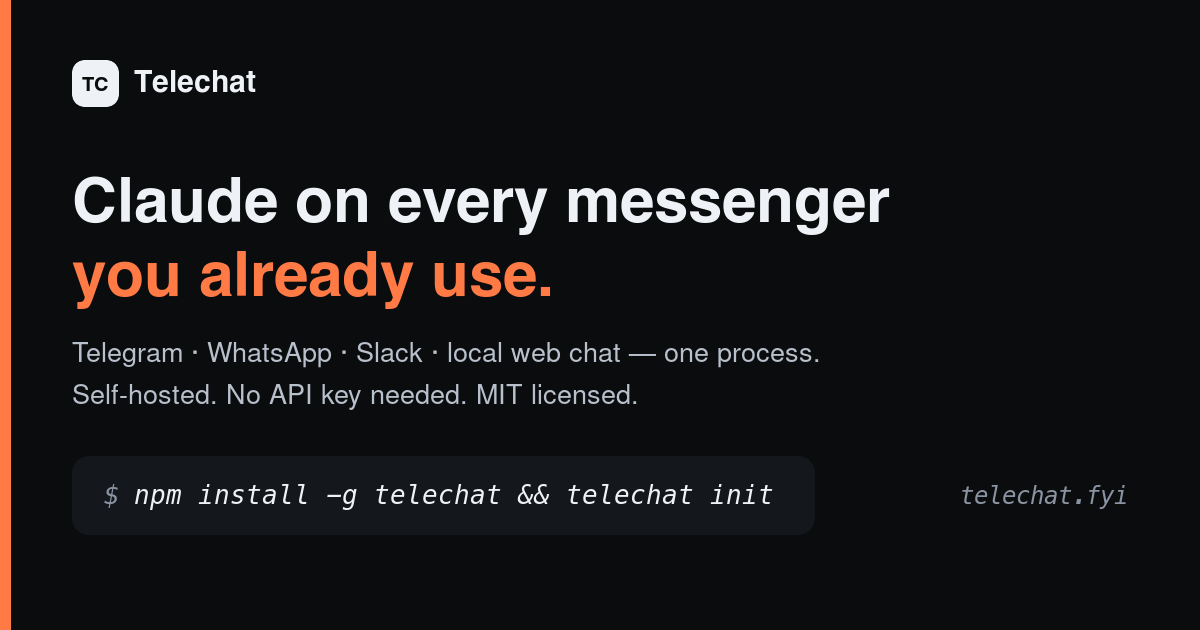
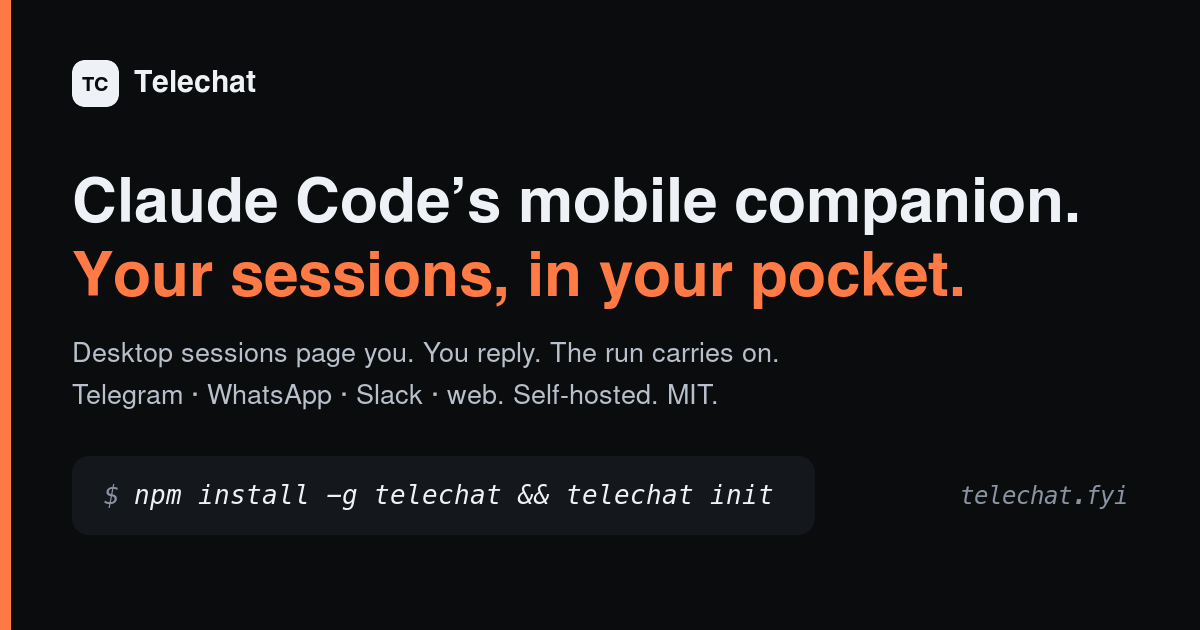
docs(website): sell the bridge, not another Claude chat bot
The page opened with "Claude on every messenger you already use." Every
single-file Claude-on-Telegram script opens with that sentence, and the
one thing Telechat does that none of them do — reach into the Claude Code
sessions already running on your desktop — was three screens down under
the heading "The differentiator."

So the site now leads with it. Title, description, both social cards and
the OG image say "Claude Code's mobile companion". The hero explains the
actual problem (the work stops when you walk away from the machine) and
the actual fix (it pages you; you answer; the session resumes). Features
are reframed as what the same process does between pages. The comparison
table opens on the two rows a bot script and a hosted assistant both
score nothing on. The FAQ answers "what is the bridge" first, and adds
the question people actually ask second — whether it works from a
terminal rather than the app.

`telechat bridge install` was a comment at the end of a code block; it is
now install step 6, with what it writes and what to do next.

A TestPositioning class locks this in, so undoing it has to be a decision
rather than a drift, and a new check catches a `telechat bridge <sub>`
the page teaches but the CLI doesn't handle.

Changed region(s): [[0.0617, 0.2714, 0.8942, 0.4825], [0.0617, 0.5429, 0.6783, 0.6635]]

diff --git a/website/index.html b/website/index.html
@@ -3,8 +3,8 @@
 <head>
 <meta charset="UTF-8">
 <meta name="viewport" content="width=device-width, initial-scale=1">
-<title>Telechat — self-hosted Claude bot for Telegram, WhatsApp &amp; Slack</title>
-<meta name="description" content="Self-hosted Claude bot for Telegram, WhatsApp, Slack and a local web chat — one process, no API key needed, MIT licensed. Install with one command.">
+<title>Telechat — Claude Code's mobile companion</title>
+<meta name="description" content="Claude Code's mobile companion. Your desktop sessions page you when they need a decision, you answer from your phone, and the run carries on.">
 <meta name="author" content="telechatai">
 <meta name="robots" content="index, follow, max-image-preview:large">
 <meta name="theme-color" content="#0b0c0e" media="(prefers-color-scheme: dark)">
@@ -18,20 +18,20 @@
 <meta property="og:type" content="website">
 <meta property="og:site_name" content="Telechat">
 <meta property="og:url" content="https://telechat.fyi/">
-<meta property="og:title" content="Telechat — Claude on Telegram, WhatsApp &amp; Slack">
-<meta property="og:description" content="A self-hosted bot that runs Claude on every messenger you already use — and pages you on Telegram when a Claude Code session on your desktop needs a decision. One command to install.">
+<meta property="og:title" content="Telechat — Claude Code's mobile companion">
+<meta property="og:description" content="Claude Code runs on your desktop. Telechat puts it in your pocket: a triage card when a session needs a decision, a reply that resumes it, and a live dashboard of every session. Self-hosted, MIT.">
 <meta property="og:image" content="https://telechat.fyi/og.png">
 <meta property="og:image:width" content="1200">
 <meta property="og:image:height" content="630">
-<meta property="og:image:alt" content="Telechat — Claude on Telegram, WhatsApp and Slack. Self-hosted, one command.">
+<meta property="og:image:alt" content="Telechat — Claude Code's mobile companion. Your sessions page you; you answer from your phone.">
 <meta property="og:locale" content="en_US">
 
 <!-- Twitter / X -->
 <meta name="twitter:card" content="summary_large_image">
-<meta name="twitter:title" content="Telechat — Claude on Telegram, WhatsApp &amp; Slack">
-<meta name="twitter:description" content="Self-hosted Claude bot for Telegram, WhatsApp, Slack and local web chat. Plus a Desktop bridge that pages you when Claude Code needs a decision.">
+<meta name="twitter:title" content="Telechat — Claude Code's mobile companion">
+<meta name="twitter:description" content="Your Claude Code sessions page you on Telegram when they need a decision. Reply from your phone and the session resumes. Self-hosted, MIT, one command.">
 <meta name="twitter:image" content="https://telechat.fyi/og.png">
-<meta name="twitter:image:alt" content="Telechat — Claude on Telegram, WhatsApp and Slack. Self-hosted, one command.">
+<meta name="twitter:image:alt" content="Telechat — Claude Code's mobile companion. Your sessions page you; you answer from your phone.">
 
 <script type="application/ld+json">
 {
@@ -39,7 +39,7 @@
   "@type": "SoftwareApplication",
   "name": "Telechat",
   "alternateName": "telechatai",
-  "description": "Self-hosted personal bot that runs Claude on Telegram, WhatsApp, Slack and a local web chat from a single process, with a Claude Code Desktop bridge for remote notifications and control.",
+  "description": "Self-hosted mobile companion for Claude Code. Desktop sessions send triage cards to Telegram when they finish or need a decision, replies resume them remotely, tool calls can be approved from a phone, and a web dashboard shows every session on the machine.",
   "url": "https://telechat.fyi/",
   "applicationCategory": "DeveloperApplication",
   "applicationSubCategory": "Chatbot",
@@ -63,8 +63,10 @@
     "url": "https://github.com/telechatai"
   },
   "featureList": [
-    "Telegram, WhatsApp, Slack and local web chat from one process",
     "Claude Code Desktop bridge with AI triage digests and remote replies",
+    "Approve Bash, Write and Edit tool calls from your phone",
+    "Web dashboard of every Claude Code session on the machine",
+    "Telegram, WhatsApp, Slack and local web chat from one process",
     "CLI mode — no API key needed with a Claude subscription",
     "Per-user memory with SQLite FTS5 search",
     "Multi-session conversations",
@@ -79,6 +81,22 @@
   "@context": "https://schema.org",
   "@type": "FAQPage",
   "mainEntity": [
+    {
+      "@type": "Question",
+      "name": "What exactly is the Claude Desktop bridge?",
+      "acceptedAnswer": {
+        "@type": "Answer",
+        "text": "It hooks into Claude Code on your machine. When a session finishes a turn or needs input, you get a triage card on Telegram summarising what happened and what decision is pending. Reply to the card and your message is injected into that session with claude --resume. Optionally every Bash, Write and Edit call can require approval from your phone."
+      }
+    },
+    {
+      "@type": "Question",
+      "name": "Does the bridge work if I use Claude Code in a terminal, not the app?",
+      "acceptedAnswer": {
+        "@type": "Answer",
+        "text": "Yes. The hooks live in ~/.claude/settings.json, which every Claude Code session reads however it was launched, and sessions are read from ~/.claude/projects. The bridge needs Claude Code and Telechat on the same machine, not any particular front end."
+      }
+    },
     {
       "@type": "Question",
       "name": "Do I need an Anthropic API key?",
@@ -101,14 +119,6 @@
       "acceptedAnswer": {
         "@type": "Answer",
         "text": "No. Telegram and WhatsApp use polling, Slack uses Socket Mode over an outbound WebSocket, and the web chat binds to loopback. Telechat works behind NAT, on hotel Wi-Fi and on a laptop that sleeps."
-      }
-    },
-    {
-      "@type": "Question",
-      "name": "What exactly is the Claude Desktop bridge?",
-      "acceptedAnswer": {
-        "@type": "Answer",
-        "text": "It hooks into Claude Code on your machine. When a session finishes a turn or needs input, you get a triage card on Telegram summarising what happened and what decision is pending. Reply to the card and your message is injected into that session with claude --resume. Optionally every Bash, Write and Edit call can require approval from your phone."
       }
     },
     {
@@ -425,9 +435,9 @@ footer{border-top:1px solid var(--line-soft);background:var(--bg-2);padding:48px
 <div class="hero">
   <div class="wrap hero-grid">
     <div>
-      <a class="pill" href="#bridge"><span class="dot" aria-hidden="true"></span> New — Claude Code Desktop bridge</a>
-      <h1 class="hero-h1">Claude on every messenger you already use.<br><span class="grad">Running on your machine.</span></h1>
-      <p class="hero-sub">Telechat is a self-hosted bot that puts Claude on <strong>Telegram</strong>, <strong>WhatsApp</strong>, <strong>Slack</strong> and a local <strong>web chat</strong> — all from one process. No server, no account, and with a Claude subscription, <strong>no API key</strong>.</p>
+      <a class="pill" href="#bridge"><span class="dot" aria-hidden="true"></span> New — live session dashboard in the web chat</a>
+      <h1 class="hero-h1">Claude Code's mobile companion.<br><span class="grad">Your sessions, in your pocket.</span></h1>
+      <p class="hero-sub">Claude Code runs on your desktop, which means the work stops the moment you walk away from it. Telechat hooks into those sessions: when one finishes or stalls on a decision, it <strong>pages you</strong> — on Telegram, WhatsApp, Slack or a local web chat. You reply from your phone and <strong>the session carries on</strong>.</p>
 
       <div class="cmd">
         <code id="cmd-hero"><span class="pr">$ </span>npm install -g telechat &amp;&amp; telechat init</code>
@@ -443,7 +453,7 @@ footer{border-top:1px solid var(--line-soft);background:var(--bg-2);padding:48px
         </a>
         <a class="btn btn-ghost" href="https://github.com/telechatai/telechat" rel="noopener">Read the source</a>
       </div>
-      <p class="hero-note">Or try it first with <code>telechat web</code> — no account, no config. Python 3.10–3.13 · MIT licensed · v1.2.0</p>
+      <p class="hero-note">Then <code>telechat bridge install</code> to hook up Claude Code. Or try the chat first with <code>telechat web</code> — no account, no config. Python 3.10–3.13 · MIT licensed · v1.2.0</p>
     </div>
 
     <!-- Telegram-style preview of a bridge triage card -->
@@ -469,8 +479,8 @@ footer{border-top:1px solid var(--line-soft);background:var(--bg-2);padding:48px
 <!-- ── STRIP ───────────────────────────────────────────── -->
 <div class="strip">
   <div class="wrap strip-in">
-    <div class="stat"><div class="n">4</div><div class="l">Platforms, one process</div></div>
-    <div class="stat"><div class="n">0</div><div class="l">Servers to run</div></div>
+    <div class="stat"><div class="n">1</div><div class="l">Command to hook up Claude Code</div></div>
+    <div class="stat"><div class="n">4</div><div class="l">Ways to reach your sessions</div></div>
     <div class="stat"><div class="n">$0</div><div class="l">In CLI mode</div></div>
     <div class="stat"><div class="n">MIT</div><div class="l">Fully open source</div></div>
   </div>
@@ -481,13 +491,14 @@ footer{border-top:1px solid var(--line-soft);background:var(--bg-2);padding:48px
   <div class="wrap">
     <div class="bridge-grid">
       <div>
-        <p class="eyebrow">The differentiator</p>
+        <p class="eyebrow">How it works</p>
         <h2>Your Claude Code sessions can page you.</h2>
-        <p class="lede">Telechat hooks into Claude Code on your desktop. When a session finishes a turn or stalls on a question, you get a triage card on Telegram — status first, decision pulled to the top. Reply to the card and your answer is injected straight back into that session.</p>
+        <p class="lede">Telechat registers hooks in Claude Code on your desktop. When a session finishes a turn or stalls on a question, you get a triage card on Telegram — status first, decision pulled to the top. Reply to the card and your answer is injected straight back into that session.</p>
         <ul class="checks">
-          <li><span class="tick" aria-hidden="true">✓</span><span><b>Glanceable digests.</b> A fast model turns a wall of output into ✅ DONE / ⚠ NEEDS DECISION / ❌ BLOCKED — with the full text one tap away, never lost.</span></li>
+          <li><span class="tick" aria-hidden="true">✓</span><span><b>Glanceable digests.</b> A fast model turns a wall of output into ✅ DONE / ⚠ NEEDS DECISION / ❌ BLOCKED, with the files touched and whether the tests ran — and the full text one tap away, never lost.</span></li>
           <li><span class="tick" aria-hidden="true">✓</span><span><b>Reply from anywhere.</b> Your message resumes the session with <code>claude --resume</code>. Broadcast to every running session with <code>/desktop_all</code>.</span></li>
-          <li><span class="tick" aria-hidden="true">✓</span><span><b>Approve tools from your phone.</b> Opt in per project and every Bash, Write and Edit call waits for your tap — with an explicit timeout policy, not an accident.</span></li>
+          <li><span class="tick" aria-hidden="true">✓</span><span><b>Approve tools from your phone.</b> The card shows the actual call — the command, the diff — and one tap can allow it and stop it asking again for that project.</span></li>
+          <li><span class="tick" aria-hidden="true">✓</span><span><b>See every session at once.</b> The web chat has a live dashboard: what's running, which project, working or idle, and the last thing each one said.</span></li>
           <li><span class="tick" aria-hidden="true">✓</span><span><b>One command.</b> <code>telechat bridge install</code> writes the hooks, installs a launchd service and runs preflight checks.</span></li>
         </ul>
         <div class="cta-row">
@@ -524,8 +535,8 @@ footer{border-top:1px solid var(--line-soft);background:var(--bg-2);padding:48px
   <div class="wrap">
     <div class="sec-head center">
       <p class="eyebrow">Features</p>
-      <h2>A personal assistant, not a demo</h2>
-      <p class="lede">Everything runs in one process against one local SQLite file. Nothing here needs a second service.</p>
+      <h2>And between pages, a full assistant</h2>
+      <p class="lede">The bridge is the reason to install it; this is what the same process does the rest of the time. All of it runs against one local SQLite file — nothing here needs a second service.</p>
     </div>
     <div class="cards">
       <div class="card"><div class="ic" aria-hidden="true">💬</div><h3>Four surfaces, one process</h3><p>Telegram, WhatsApp (Green API), Slack (Socket Mode) and a local web chat. Set <code>BOT_MODE=all</code> and they share the same sessions, memory and history.</p></div>
@@ -563,7 +574,7 @@ footer{border-top:1px solid var(--line-soft);background:var(--bg-2);padding:48px
           <tr><th scope="row">Setup</th><td>Talk to @BotFather</td><td>Scan a QR code</td><td>Create a Slack app</td><td class="yes">Nothing — open the URL</td></tr>
           <tr><th scope="row">Photos &amp; files</th><td class="yes">Yes</td><td class="no">Text only</td><td class="no">Text only</td><td class="no">Text only</td></tr>
           <tr><th scope="row">Interactive UI</th><td class="yes">Inline buttons</td><td class="no">—</td><td>Reactions as status</td><td class="yes">Full browser UI</td></tr>
-          <tr><th scope="row">Desktop bridge</th><td class="yes">Yes</td><td class="no">—</td><td class="no">—</td><td class="no">—</td></tr>
+          <tr><th scope="row">Desktop bridge</th><td class="yes">Cards, replies, approvals</td><td class="no">—</td><td class="no">—</td><td class="yes">Session dashboard</td></tr>
           <tr><th scope="row">Works without a public URL</th><td class="yes">Yes (polling)</td><td class="yes">Yes (polling)</td><td class="yes">Yes (WebSocket)</td><td class="yes">It <em>is</em> local</td></tr>
           <tr><th scope="row">Works on corporate Wi-Fi</th><td>Depends</td><td class="yes">Yes</td><td class="yes">Yes</td><td class="yes">Yes</td></tr>
         </tbody>
@@ -579,8 +590,8 @@ footer{border-top:1px solid var(--line-soft);background:var(--bg-2);padding:48px
   <div class="wrap">
     <div class="sec-head">
       <p class="eyebrow">How it compares</p>
-      <h2>Against the other ways to get Claude in a chat</h2>
-      <p class="lede">Most Claude-on-Telegram projects are a single-file script around one API call. Hosted assistants are the opposite trade: no setup, but your conversations live on someone else's box.</p>
+      <h2>Against the other ways to reach Claude from your phone</h2>
+      <p class="lede">Most Claude-on-Telegram projects are a single-file script around one API call — a chat, with no idea your desktop exists. Hosted assistants are the opposite trade: no setup, but your conversations live on someone else's box and your Claude Code sessions are still on the machine you left.</p>
     </div>
     <div class="table-scroll">
       <table>
@@ -588,11 +599,12 @@ footer{border-top:1px solid var(--line-soft);background:var(--bg-2);padding:48px
           <th scope="col">&nbsp;</th><th scope="col">Telechat</th><th scope="col">Typical bot script</th><th scope="col">Hosted AI assistant</th>
         </tr></thead>
         <tbody>
+          <tr><th scope="row">Claude Code integration</th><td class="yes">Triage cards, remote replies, tool approval</td><td class="no">—</td><td class="no">—</td></tr>
+          <tr><th scope="row">Knows when a session needs you</th><td class="yes">Pages you on Telegram</td><td class="no">—</td><td class="no">—</td></tr>
           <tr><th scope="row">Where it runs</th><td class="yes">Your machine</td><td>Your machine</td><td class="no">Vendor cloud</td></tr>
           <tr><th scope="row">Cost model</th><td class="yes">Free with a Claude subscription</td><td>API tokens</td><td class="no">Monthly seat</td></tr>
           <tr><th scope="row">Messengers supported</th><td class="yes">Telegram + WhatsApp + Slack + web</td><td>One</td><td>Varies, usually one</td></tr>
           <tr><th scope="row">Conversation storage</th><td class="yes">Local SQLite you can read</td><td>In memory, lost on restart</td><td class="no">Vendor database</td></tr>
-          <tr><th scope="row">Claude Code integration</th><td class="yes">Desktop bridge with remote replies</td><td class="no">—</td><td class="no">—</td></tr>
           <tr><th scope="row">Access to your files</th><td class="yes">Yours, scoped by config</td><td class="no">Usually none</td><td class="no">None</td></tr>
           <tr><th scope="row">Runs as a service</th><td class="yes">launchd / systemd + watchdog</td><td class="no">A terminal you can't close</td><td>Not yours to run</td></tr>
           <tr><th scope="row">Auditable</th><td class="yes">MIT, tests in CI on 3.10–3.13</td><td>Varies</td><td class="no">Closed</td></tr>
@@ -611,7 +623,7 @@ footer{border-top:1px solid var(--line-soft);background:var(--bg-2);padding:48px
     <div class="sec-head center">
       <p class="eyebrow">Get started</p>
       <h2>Running in about three minutes</h2>
-      <p class="lede">The only prerequisite is the Claude Code CLI, and only if you want the free CLI mode.</p>
+      <p class="lede">If you already use Claude Code, you have the only prerequisite. Steps 1–5 give you the bot; step 6 is the one that connects it to your sessions.</p>
     </div>
 
     <div class="steps">
@@ -619,7 +631,7 @@ footer{border-top:1px solid var(--line-soft);background:var(--bg-2);padding:48px
         <div class="num">1</div>
         <div>
           <h3>Install the Claude Code CLI</h3>
-          <p>Skip this if you plan to use API mode with an <code>ANTHROPIC_API_KEY</code>.</p>
+          <p>Already have it? Skip ahead. It's what the bridge watches and what CLI mode talks to — the only way past it is API mode with an <code>ANTHROPIC_API_KEY</code>.</p>
 <pre><span class="c">$</span> npm install -g @anthropic-ai/claude-code
 <span class="c">$</span> claude auth login</pre>
         </div>
@@ -676,8 +688,24 @@ footer{border-top:1px solid var(--line-soft);background:var(--bg-2);padding:48px
 <pre><span class="c">$</span> telechat            <span class="c"># start in the background</span>
 <span class="c">$</span> telechat status     <span class="c"># is it alive?</span>
 <span class="c">$</span> telechat logs       <span class="c"># tail the log</span>
-<span class="c">$</span> telechat doctor     <span class="c"># diagnose config + connectivity</span>
-<span class="c">$</span> telechat bridge install   <span class="c"># hook up Claude Code</span></pre>
+<span class="c">$</span> telechat doctor     <span class="c"># diagnose config + connectivity</span></pre>
+        </div>
+      </div>
+
+      <div class="step">
+        <div class="num">6</div>
+        <div>
+          <h3>Hook up Claude Code</h3>
+          <p>The step that makes it a companion rather than another chat window. It registers the hooks, installs a login service and checks the whole path before claiming success. Run it on the machine you actually code on.</p>
+<pre><span class="c">$</span> telechat bridge install
+
+<span class="k">✓</span> Hooks registered in ~/.claude/settings.json
+<span class="k">✓</span> Service installed (starts at login)
+<span class="k">✓</span> Preflight passed — 5 checks
+
+  Next: run a Claude Code session and let it finish.
+  The card lands in Telegram. Reply to it.</pre>
+          <p style="margin-top:10px">Add <code>--approval</code> to gate Bash, Write and Edit on your tap. <code>telechat bridge status</code> lists the sessions it can see; <code>telechat bridge uninstall</code> removes every trace.</p>
         </div>
       </div>
     </div>
@@ -697,6 +725,7 @@ footer{border-top:1px solid var(--line-soft);background:var(--bg-2);padding:48px
     </div>
     <div class="uses">
       <div class="use"><h3>Babysit long Claude Code runs from the sofa</h3><p>Kick off a refactor, close the laptop lid on the question of whether to keep the legacy flow, and answer it from Telegram when the card arrives. The session resumes without you touching the keyboard.</p></div>
+      <div class="use"><h3>Keep three sessions honest at once</h3><p>Open the web chat's session dashboard and see all of them: which project, which model, working or idle, and the last thing each one said. The one that has been idle for twenty minutes is the one waiting on you.</p></div>
       <div class="use"><h3>A second brain that survives restarts</h3><p><code>/remember</code> the things you keep re-explaining — stack, conventions, who owns what — and every future conversation on every platform starts with them already loaded.</p></div>
       <div class="use"><h3>Ask your own documents anything</h3><p>Drop contracts, RFCs or a manual into the knowledge base and query them in the same thread where you ask everything else. The files never leave your disk except as prompt context.</p></div>
       <div class="use"><h3>Claude in a team channel, without a vendor</h3><p>Socket Mode means no public URL and no inbound firewall rule. The bot lives on one laptop, answers in a channel, and the allowlist keeps it to the people you named.</p></div>
@@ -734,6 +763,11 @@ footer{border-top:1px solid var(--line-soft);background:var(--bg-2);padding:48px
     </div>
 
     <details open>
+      <summary>What exactly is the Claude Desktop bridge?</summary>
+      <div class="body">Hooks registered in <code>~/.claude/settings.json</code>. When a Claude Code session on your machine stops, needs input, or finishes a subagent, Telechat posts a triage card to Telegram summarising the result and surfacing any pending decision. Replying to the card injects your message into that session via <code>claude --resume</code>, and with <code>--approval</code> every Bash, Write and Edit call waits for a tap first. Nothing about your sessions leaves the machine except the card text you asked to be sent.</div>
+    </details>
+
+    <details>
       <summary>Do I need an Anthropic API key?</summary>
       <div class="body">No. In CLI mode Telechat shells out to the Claude Code CLI, which uses your existing Claude subscription — no key, no per-token bill. API mode with an <code>ANTHROPIC_API_KEY</code> is available if you prefer it, and is what the Docker image runs, since the container has no host Claude authentication.</div>
     </details>
@@ -749,8 +783,8 @@ footer{border-top:1px solid var(--line-soft);background:var(--bg-2);padding:48px
     </details>
 
     <details>
-      <summary>What exactly is the Claude Desktop bridge?</summary>
-      <div class="body">Hooks registered in <code>~/.claude/settings.json</code>. When a Claude Code session on your machine stops, needs input, or finishes a subagent, Telechat posts a triage card to Telegram summarising the result and surfacing any pending decision. Replying to the card injects your message into that session via <code>claude --resume</code>, and with <code>--approval</code> every Bash, Write and Edit call waits for a tap first.</div>
+      <summary>Does the bridge work if I use Claude Code in a terminal, not the app?</summary>
+      <div class="body">Yes. The hooks live in <code>~/.claude/settings.json</code>, which every Claude Code session reads regardless of how you launched it, and the session list is read from <code>~/.claude/projects</code>. What the bridge needs is that Claude Code and Telechat run on the same machine as each other — not that you use any particular front end.</div>
     </details>
 
     <details>
@@ -779,8 +813,8 @@ footer{border-top:1px solid var(--line-soft);background:var(--bg-2);padding:48px
 <section id="start" style="padding-top:20px">
   <div class="wrap">
     <div class="final">
-      <h2>One command. Then it's just a chat.</h2>
-      <p class="lede" style="margin-left:auto;margin-right:auto;text-align:center">Install it, answer four prompts, and message your own bot.</p>
+      <h2>Stop being the thing your sessions wait for.</h2>
+      <p class="lede" style="margin-left:auto;margin-right:auto;text-align:center">Install it, answer four prompts, run <code>telechat bridge install</code>, and the next Claude Code session that needs you will say so.</p>
       <div class="cmd" style="margin-top:26px">
         <code><span class="pr">$ </span>npm install -g telechat &amp;&amp; telechat init</code>
         <button class="copy" type="button" data-copy="npm install -g telechat &amp;&amp; telechat init">

diff --git a/tests/test_website.py b/tests/test_website.py
@@ -505,3 +505,70 @@ class TestSiteMatchesReality:
             if name.startswith(("BOT_", "CLAUDE_", "TELEGRAM_", "SLACK_", "WHATSAPP_",
                                 "GREEN_API_", "WEB_CHAT_", "BRIDGE_", "ANTHROPIC_")):
                 assert name in source, f"{page} documents {name}, which no module reads"
+
+    def test_the_cli_commands_the_page_teaches_actually_exist(self, html):
+        """A `telechat …` command on the install page must be a real subcommand."""
+        main = (REPO_ROOT / "telechat_pkg" / "main.py").read_text()
+        bridge = (REPO_ROOT / "telechat_pkg" / "desktop_bridge.py").read_text()
+        taught = set(re.findall(r"telechat bridge ([a-z]+)", html))
+        for sub in taught:
+            assert f'"{sub}"' in bridge, f"page teaches `telechat bridge {sub}`, which isn't handled"
+        assert '"bridge"' in main, "page teaches `telechat bridge`, which main.py doesn't dispatch"
+
+
+# ─── positioning ─────────────────────────────────────────────────────────────
+
+
+class TestPositioning:
+    """The page sells the Claude Code bridge, not 'a Claude bot'.
+
+    Telechat's one thing no other Claude-in-a-chat project does is reach into
+    the Claude Code sessions already running on your desktop. When the copy led
+    with 'Claude on every messenger', that landed the page in a crowded
+    category and buried the reason to install it. These assertions are here so
+    a future copy edit has to be deliberate about undoing that.
+    """
+
+    def test_the_title_names_claude_code(self, html):
+        title = re.search(r"<title>(.*?)</title>", html, re.S).group(1)
+        assert "Claude Code" in title, f"title does not mention Claude Code: {title!r}"
+
+    def test_the_description_leads_with_the_bridge(self, html):
+        desc = _meta(html, "description")
+        assert "Claude Code" in desc, f"meta description is off-message: {desc!r}"
+
+    def test_the_social_cards_carry_the_same_promise(self, html):
+        for prop, attr in (("og:title", "property"), ("og:description", "property"),
+                           ("twitter:title", "name"), ("twitter:description", "name")):
+            value = _meta(html, prop, attr=attr)
+            assert "Claude Code" in value, f"{prop} is off-message: {value!r}"
+
+    def test_the_headline_is_about_sessions_not_messengers(self, html):
+        h1 = re.search(r'<h1 class="hero-h1">(.*?)</h1>', html, re.S).group(1)
+        h1 = re.sub(r"<[^>]+>", " ", h1)
+        assert "Claude Code" in h1, f"h1 does not lead with Claude Code: {h1!r}"
+
+    def test_the_bridge_section_comes_before_the_generic_features(self, html):
+        # Order on the page is the argument. Features first would say "this is a
+        # bot that also has a bridge", which is the positioning we moved off.
+        assert html.index('id="bridge"') < html.index('id="features"')
+
+    def test_the_bridge_is_the_first_thing_the_faq_answers(self, html):
+        first = re.search(r"<summary>(.*?)</summary>", html, re.S).group(1)
+        assert "bridge" in first.lower(), f"first FAQ is not about the bridge: {first!r}"
+
+    def test_installing_the_bridge_is_a_step_not_a_footnote(self, html):
+        assert "telechat bridge install" in html
+        steps = re.findall(r'<div class="step">.*?<h3>(.*?)</h3>', html, re.S)
+        assert any("Claude Code" in s for s in steps[1:]), (
+            f"no install step hooks up Claude Code: {steps}"
+        )
+
+    def test_the_social_card_image_shows_the_new_headline(self):
+        svg = (SITE / "og.svg").read_text()
+        assert "Claude Code" in svg, "og.svg still carries the old headline"
+        # The PNG is what social platforms fetch; a stale render is the whole
+        # bug this file's og.svg comment warns about.
+        assert (SITE / "og.png").stat().st_mtime >= (SITE / "og.svg").stat().st_mtime, (
+            "og.png is older than og.svg — re-render it with `magick -background none og.svg og.png`"
+        )

diff --git a/CHANGELOG.md b/CHANGELOG.md
@@ -9,6 +9,21 @@ not which function moved.
 
 ## [Unreleased]
 
+### Changed
+
+- **telechat.fyi now says what Telechat is for.** The site led with "Claude on
+  every messenger you already use" — true, and the same sentence a dozen
+  single-file Telegram scripts open with. The one thing Telechat does that none
+  of them do was three screens down.
+
+  The page now leads with the Claude Code bridge: your desktop sessions page
+  you, you answer from your phone, the run carries on. Everything else — four
+  messengers, memory, the knowledge base — is what the same process does
+  between pages, which is where it belongs. Hooking up Claude Code is a numbered
+  install step rather than a line in a code block, the comparison table opens
+  on the row nothing else can fill, and the FAQ answers "what is the bridge"
+  first. Social cards and the OG image were re-cut to match.
+
 ### Added
 
 - **Web chat shows every Claude Code session on the machine.** The bridge could
